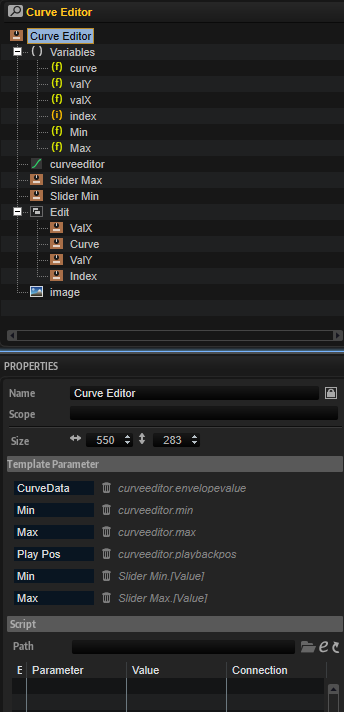
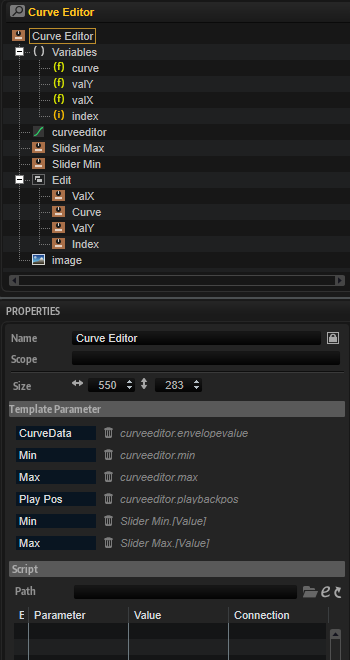
Corrected page links. Revised Curve Editor Template

Changed region(s): [[0.0, 0.0, 1.0, 1.0]]

diff --git a/src/HALion-Macro-Page/pages/Curve-Editor.md b/src/HALion-Macro-Page/pages/Curve-Editor.md
@@ -13,9 +13,9 @@
 
 ## Description
 
-The Curve Editor template allows you to display and edit curves, such as the custom curve of the velocity curve module or the modulation matrix. The template contains a combination of controls to modify the values of the selected node. These controls are connected using UI parameters, which are be part of the template and that must use the UI variables defined inside the template.
+The Curve Editor template allows you to display and edit curves, such as the custom curve of the Velocity Curve MIDI module or the modulation matrix, for example. The template contains various controls to modify the values of the selected node. These controls use UI parameters to connect with the Curve Editor. The controls must be part of the template and they must use the UI variables as defined in the template.
 
->&#10069; The Curve Editor control cannot be created manually in the GUI Tree. It only comes as part of the Curve Editor template. Please load the [Init Basic Controls.vstpreset](../vstpresets/Init%20Basic%20Controls.vstpreset) from the [Basic Controls](./Exploring-Templates.md#basic-controls) library and reuse this template. You can adapt the look and feel of the Curve Editor template to your own needs with the [Properties](#properties) and [Colors](#colors) described below.
+>&#10069; The Curve Editor control cannot be created manually in the GUI Tree. {{#include ./_Templates.md:special-template}}
 
 ## Template Properties
 
@@ -27,7 +27,16 @@ The Curve Editor template allows you to display and edit curves, such as the cus
 {{#include ./_Properties.md:tooltip}}
 {{#include ./_Properties.md:template}}
 
-## Template Components
+## Template Parameters
+
+|Parameter|Description|
+|:-|:-|
+|**Curve Data**|Connect this to the FuncData parameter of the Velocity Curve MIDI module, for example.|
+|**Min**|Compresses the curve vertically from the bottom. Connect this to the Minimum parameter of a Velocity Curve MIDI module, for example.|
+|**Max**|Compresses the curve vertically from the top. Connect this to the Maximum parameter of a Velocity Curve MIDI module, for example.|
+|**Play Pos**|Allows you to connect a parameter that sends the current value on the curve, e.g., input to output velocity.|
+
+## Components inside the Template
 
 ![Curve Editor Template](../images/Curve-Editor-Template.PNG)
 
@@ -37,21 +46,19 @@ The following variables are needed to allow the communication between the curve 
 
 |Variable|Description|Type|Range|
 |:-|:-|:-|:-:|
-|**curve**|Curvature of the selected node.|float|-10 - 10|
-|**valY**|Y value of the selected node.|float|0 - 1|
-|**valX**|X value of the selected node.|float|0 - 1|
-|**index**|Index of the selected node.|integer|0 - 100|
-|**Min**|Mimimum level of the curve.|float|0 - 1|
-|**Max**|Maximum level of the curve.|float|0 - 1|
+|**curve**|The curvature of the selected node.|float|-10 - 10|
+|**valY**|The y-value of the selected node.|float|0 - 1|
+|**valX**|The x-value of the selected node.|float|0 - 1|
+|**index**|The index of the selected node.|integer|0 - 100|
 
 ### Controls and Subtemplates
 
 |Item|Description|
 |:-|:-|
-|**curveeditor**|The curve editor control. The properties FuncData, Minimum, and Maximum are exported and thus are available as template parameters on the instance level of the template. The template parameters must be connected to the corresponding parameters of a Velocity Curve MIDI module, for example. See [Curve Editor Control](#curve-editor-control) for more details about the configuration of the control.|
-|**Slider Max**|A slider template with an exported value (Max) to be connected on a template instance level. For example, to the Maximum parameter of a Velocity curve module.|
-|**Slider Min**|A slider template with an exported value (Min) to be connected on a template instance level. For example, to the Maximum parameter of a Velocity curve module.|
-|**Edit**|A group of valuebox templates for displaying and editing the values of the selected node. The controls are connected to the curve editor control via the variables defined above.<ul><li>**ValX:** A valuebox template to control the X value of the selected node (Value = @valX).</li><li>**ValY:** A valuebox template to control the Y value of the selected node (Value = @valY).</li><li>**Curve:** A valuebox template to control the curvature value of the selected node (Value = @curve).</li><li>**Index:** A valuebox template to set the selected node (Value = @index).</li></ul>|
+|**curveeditor**|The Curve Editor control. The properties FuncData, Minimum, and Maximum are exported and thus are available as template parameters. The exported Minimum and Maximum properties and the exported Value property of Slider Min and Slider Max (see below) share the same name for the template parameters and therefore appear only as one template parameter Min and Max on the instance level of the template. For more details about the configuration of the control see [Curve Editor Control](#curve-editor-control).|
+|**Slider Max**|A slider template. The Value property of this slider template is exported and thus available as template parameter. It shares the same name ``Max``with the exported Maximum property of the Curve Editor control. Therefore, both exported properties appear only as one template parameter.|
+|**Slider Min**|A slider template. The Value property of this slider template is exported and thus available as template parameter. It shares the same name ``Min``with the exported Minimum property of the Curve Editor control. Therefore, both exported properties appear only as one template parameter.|
+|**Edit**|A group of valuebox templates for displaying and editing the values of the selected node. The controls are connected to the Curve Editor control via the UI variables defined above.<ul><li>**ValX:** A valuebox template to control the x-value of the selected node (Value = ``@valX``).</li><li>**ValY:** A valuebox template to control the y-value of the selected node (Value = ``@valY``).</li><li>**Curve:** A valuebox template to control the curvature of the selected node (Value = ``@curve``).</li><li>**Index:** A valuebox template to select the index of the node to be edited (Value = ``@index``).</li></ul>|
 |**image**|A [Bitmap](./Bitmap.md) resource for an embedded frame around the curve editor.|
 
 
@@ -67,12 +74,12 @@ The look and feel of the Curve Editor control can be configured with the followi
 {{#include ./_Properties.md:position-size}}
 {{#include ./_Properties.md:attach}}
 {{#include ./_Properties.md:tooltip}}
-|**Style**|<ul><li>**Bipolar:** Activate this style for bipolar curves like pitch or pan.</li><li>**Cross:** Shows cross lines when editing a node.</li><li>**Grid:** Shows a grid behind the curve.</li><li>**Play Pos:** Shows the position of the current value on the curve.</li><li>**Nodes:** Shows the nodes.</li><li>**Add/Rem:** Allows you to add and remove nodes, otherwise a fixed number of nodes is used.</li><li>**Sel Node:** Allows to select a node.</li><li>**Scale X:** Shows a scale for the X-axis.</li><li>**Scale Y:** Shows a scale for the Y-axis.</li></ul>|
-|**FuncData**|Export this to the instance level of the template and connect the template parameter CurveData to the FuncData parameter of the Velocity Curve MIDI module, for example.|
+|**Style**|<ul><li>**Bipolar:** Activate this style for bipolar curves like pitch or pan.</li><li>**Cross:** Shows cross lines when editing a node.</li><li>**Grid:** Shows a grid behind the curve.</li><li>**Play Pos:** Shows the position of the current value on the curve.</li><li>**Nodes:** Shows the nodes.</li><li>**Add/Rem:** Allows you to add and remove nodes, otherwise a fixed number of nodes is used.</li><li>**Sel Node:** Allows to select a node.</li><li>**Scale X:** Shows a scale for the x-axis.</li><li>**Scale Y:** Shows a scale for the y-axis.</li></ul>|
+|**FuncData**|Export this property to the instance level of the template and connect the corresponding template parameter to the FuncData parameter of the Velocity Curve MIDI module, for example.|
 |**Grid**|<ul><li>**MinX:** Defines the minimum value of the horizontal grid.</li><li>**MaxX:** Defines the maximum value of the horizontal grid.</li><li>**MinY:** Defines the minimum value of the vertical grid.</li><li>**MaxY:** Defines the maximum value of the vertical grid.</li></ul>|
-|**Selected Node**|<ul><li>**Index:** The number of the selected node (connected via "@index").</li><li>**X:** The x-value of the selected node (connected via "@valX").</li><li>**Y:** The y-value of the selected node (connected via "@valY").</li><li>**Curve:** The curvature of the selected node (connected via "@curve").</li></ul>|
-|**Minimum**|Compresses the curve vertically from the bottom. Export this to the instance level of the template and connect the template parameter Min to the Minimum parameter of the Velocity Curve MIDI module, for example.|
-|**Maximum**|Compresses the curve vertically from the top. Export this to the instance level of the template and connect the template parameter Max to the Maximum parameter of the Velocity Curve MIDI module, for example.|
+|**Selected Node**|<ul><li>**Index:** The number of the selected node (connected via ``@index``).</li><li>**X:** The x-value of the selected node (connected via ``@valX``).</li><li>**Y:** The y-value of the selected node (connected via ``@valY``).</li><li>**Curve:** The curvature of the selected node (connected via ``@curve``).</li></ul>|
+|**Minimum**|Compresses the curve vertically from the bottom. Export this property to the instance level of the template and connect the corresponding template parameter to the Minimum parameter of the Velocity Curve MIDI module, for example.|
+|**Maximum**|Compresses the curve vertically from the top. Export this property to the instance level of the template and connect the corresponding template parameter to the Maximum parameter of the Velocity Curve MIDI module, for example.|
 |**Play Pos**|Allows you to connect a parameter that sends the current value on the curve, e.g., input to output velocity. The Play Pos style must be activated to get access to this.|
 
 #### Colors
@@ -95,6 +102,4 @@ The look and feel of the Curve Editor control can be configured with the followi
 |**Grid V3**|Additional vertical fine grid color.|
 |**Grid H**|Main horizontal grid color.|
 |**Grid H2**|Additional horizontal fine grid color.|
-|**Selector**|Selection area fill color.|
-|**SelFrame**|Selection area frame.|
 |**Scale**|Scale font color.|

diff --git a/src/HALion-Macro-Page/pages/Templates.md b/src/HALion-Macro-Page/pages/Templates.md
@@ -6,19 +6,19 @@ A template is a group of control elements that is created to be used multiple ti
 
 All templates  described in this section can be found in the Basic Controls library. Additional templates for knobs, sliders, switches etc. can be found in the Additional Controls library. See [Exploring Templates](./Exploring-Templates.md) how to access templates.
 
-* [About Box](./HALion-Macro-Page/pages/About-Box.md)
-* [Curve Editor](./HALion-Macro-Page/pages/Curve-Editor.md)
-* [Envelope](./HALion-Macro-Page/pages/Envelope.md)
-* [FlexPhraser](./HALion-Macro-Page/pages/FlexPhraser.md)
-* [FlexPhraserStepSeq](./HALion-Macro-Page/pages/FlexPhraserStepSeq.md)
-* [FX Meter](./HALion-Macro-Page/pages/FX-Meter.md)
-* [MIDI Player](./HALion-Macro-Page/pages/MIDI-Player.md)
-* [Mixer Channel](./HALion-Macro-Page/pages/Mixer-Channel.md)
-* [Path Browser](./HALion-Macro-Page/pages/Path-Browser.md)
-* [Preset Browser](./HALion-Macro-Page/pages/Preset-Browser.md)
-* [Preset Browser Custom](./HALion-Macro-Page/pages/Preset-Browser-Custom.md)
-* [Sample Display](./HALion-Macro-Page/pages/Sample-Display.md)
-* [Step Modulator(Template)](./HALion-Macro-Page/pages/Step-Modulator-Template.md)
-* [Studio EQ Meter](./HALion-Macro-Page/pages/Studio-EQ-Meter.md)
-* [Wavetable Noise Selector](./HALion-Macro-Page/pages/Wavetable-Noise-Selector.md)
-* [Wavetable Selector](./HALion-Macro-Page/pages/Wavetable-Selector.md)
+* [About Box](./About-Box.md)
+* [Curve Editor](./Curve-Editor.md)
+* [Envelope](./Envelope.md)
+* [FlexPhraser](./FlexPhraser.md)
+* [FlexPhraserStepSeq](./FlexPhraserStepSeq.md)
+* [FX Meter](./FX-Meter.md)
+* [MIDI Player](./MIDI-Player.md)
+* [Mixer Channel](./Mixer-Channel.md)
+* [Path Browser](./Path-Browser.md)
+* [Preset Browser](./Preset-Browser.md)
+* [Preset Browser Custom](./Preset-Browser-Custom.md)
+* [Sample Display](./Sample-Display.md)
+* [Step Modulator(Template)](./Step-Modulator-Template.md)
+* [Studio EQ Meter](./Studio-EQ-Meter.md)
+* [Wavetable Noise Selector](./Wavetable-Noise-Selector.md)
+* [Wavetable Selector](./Wavetable-Selector.md)

diff --git a/src/HALion-Macro-Page/pages/About-Box.md b/src/HALion-Macro-Page/pages/About-Box.md
@@ -2,6 +2,14 @@
 
 # About Box
 
+---
+
+**On this page:**
+
+[[_TOC_]]
+
+---
+
 ## Description
 
 You can use the About Box template to display information about the library manufacturer and the developers, for example. Its default size matches the standard size of a HALion Sonic macro page and it contains several control elements, such as a background bitmap, several example labels, two switches, and a menu. You can adapt these elements to your own needs.
@@ -14,6 +22,8 @@ You can use the About Box template to display information about the library manu
 To open an about box, a Popup List variable is required. See "Popup Views" in the GUI Tree. The first entry of the Popup List variable must refer to the template name of the about box, here: ``Aboutbox``. The page switch "Sw_About Box" in the GUI Tree is used to open the about box. The Value of "Sw_About Box" must be set to ``@Popup Views`` and the Onvalue must be set to ``1``. The "Close switch" inside the Aboutbox template is used to close the about box. Its Value must also be set to ``@Popup Views`` and its Onvalue must be set to ``0``. A click on the opened about box will close it.
 
 In addition, the Aboutbox template contains a switch "Steinberg Website" and a menu "Weblinks" that are used to open webpages. These two controls require a UI script that is attached to the Aboutbox template. The Value of "Steinberg Website" is set to ``@WebLink`` and the Value of "Weblinks" is set to ``@WebHome``. These values refer to the parameters that are defined in the UI script and they will open the corresponding webpages, also defined in the UI script. You can edit the UI script to change the URLs.
+
+#### UI Script
 
 ```lua
 -- define web links
@@ -46,7 +56,7 @@ defineParameter("WebHome", nil, true, onWebHomeChanged)
 |:-|:-|
 |**Name**|The name of the template. The first entry of the Popup List variable must refer to this name.|
 
-## Template Components
+## Components inside the Template
 
 ![About Box template](../images/About-Box-Template.PNG)
 

diff --git a/src/HALion-Macro-Page/pages/Controls.md b/src/HALion-Macro-Page/pages/Controls.md
@@ -4,22 +4,22 @@
 
 A control is a basic element, like a text field, menu, switch, knob, etc., that can be added to a macro page. Controls have properties for their behavior and their appearance. Depending on the type of control, they can be directly connected to engine and script parameters or have a display functionality. Most controls use resources like [Bitmaps](./Bitmap.md), [Fonts](./Font.md) and [Sections](./Section.md) to define their graphical appearance.
 
-* [Decor (Control)](./HALion-Macro-Page/pages/Decor-Control.md)
-* [Disable](./HALion-Macro-Page/pages/Disable.md)
-* [Drop](./HALion-Macro-Page/pages/Drop.md)
-* [Group](./HALion-Macro-Page/pages/Group.md)
-* [Image](./HALion-Macro-Page/pages/Image.md)
-* [Internal](./HALion-Macro-Page/pages/Internal.md)
-* [Label](./HALion-Macro-Page/pages/Label.md)
-* [Menu](./HALion-Macro-Page/pages/Menu.md)
-* [Meter](./HALion-Macro-Page/pages/Meter.md)
-* [Range Slider](./HALion-Macro-Page/pages/Range-Slider.md)
-* [Stack](./HALion-Macro-Page/pages/Stack.md)
-* [Step Modulator](./HALion-Macro-Page/pages/Step-Modulator.md)
-* [Switch](./HALion-Macro-Page/pages/Switch.md)
-* [Template](./HALion-Macro-Page/pages/Template.md)
-* [Template List](./HALion-Macro-Page/pages/Template-List.md)
-* [Text](./HALion-Macro-Page/pages/Text.md)
-* [Wavetable](./HALion-Macro-Page/pages/Wavetable.md)
-* [Wavetable 3D](./HALion-Macro-Page/pages/Wavetable-3D.md)
-* [XY](./HALion-Macro-Page/pages/XY.md)
+* [Decor (Control)](./Decor-Control.md)
+* [Disable](./Disable.md)
+* [Drop](./Drop.md)
+* [Group](./Group.md)
+* [Image](./Image.md)
+* [Internal](./Internal.md)
+* [Label](./Label.md)
+* [Menu](./Menu.md)
+* [Meter](./Meter.md)
+* [Range Slider](./Range-Slider.md)
+* [Stack](./Stack.md)
+* [Step Modulator](./Step-Modulator.md)
+* [Switch](./Switch.md)
+* [Template](./Template.md)
+* [Template List](./Template-List.md)
+* [Text](./Text.md)
+* [Wavetable](./Wavetable.md)
+* [Wavetable 3D](./Wavetable-3D.md)
+* [XY](./XY.md)

diff --git a/src/HALion-Macro-Page/pages/_Templates.md b/src/HALion-Macro-Page/pages/_Templates.md
@@ -1,0 +1,3 @@
+// ANCHOR: special-template
+It only comes as part of this template. Please load the [Init Basic Controls.vstpreset](../vstpresets/Init%20Basic%20Controls.vstpreset) from the [Basic Controls](./Exploring-Templates.md#basic-controls) library and reuse this template. You can adapt the look and feel of the template to the needs of your macro page with the [Properties](#properties) and [Colors](#colors) described below. If certain controls are not required or wanted, the respective controls can be removed.
+// ANCHOR_END: special-template
